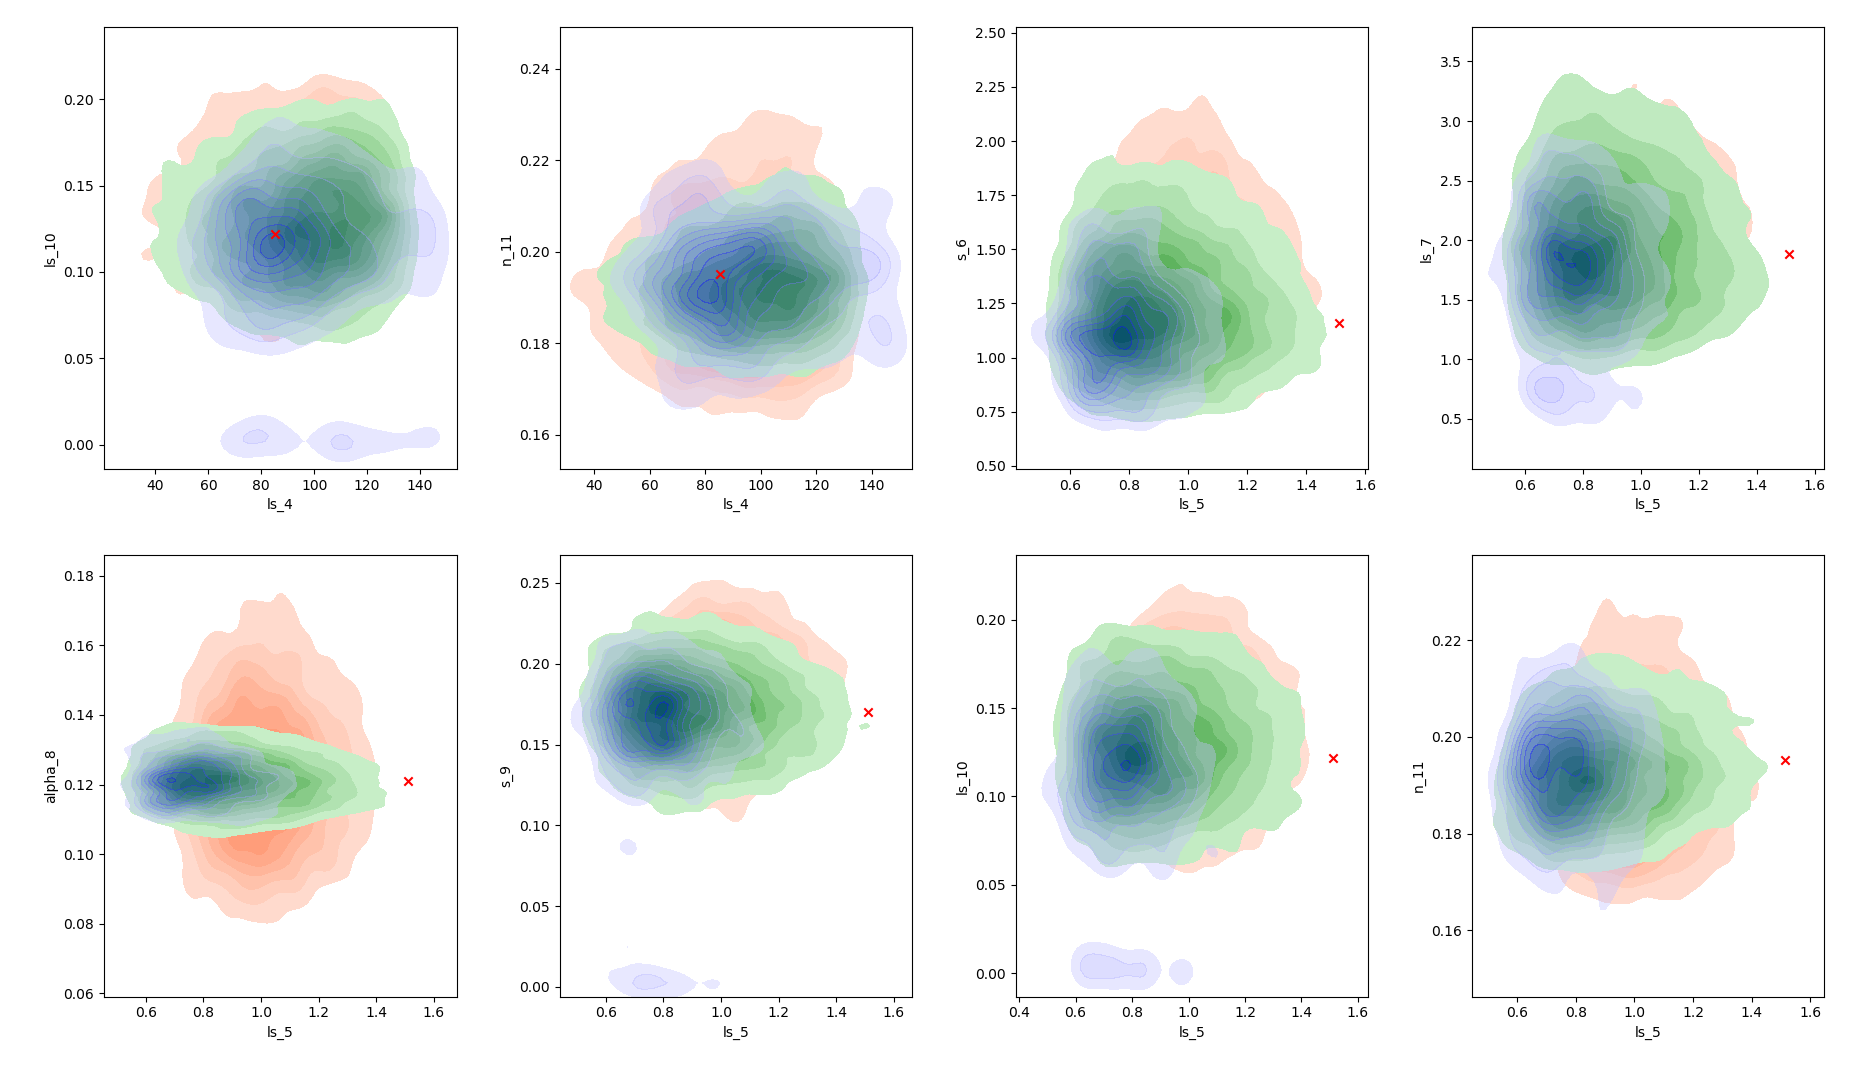
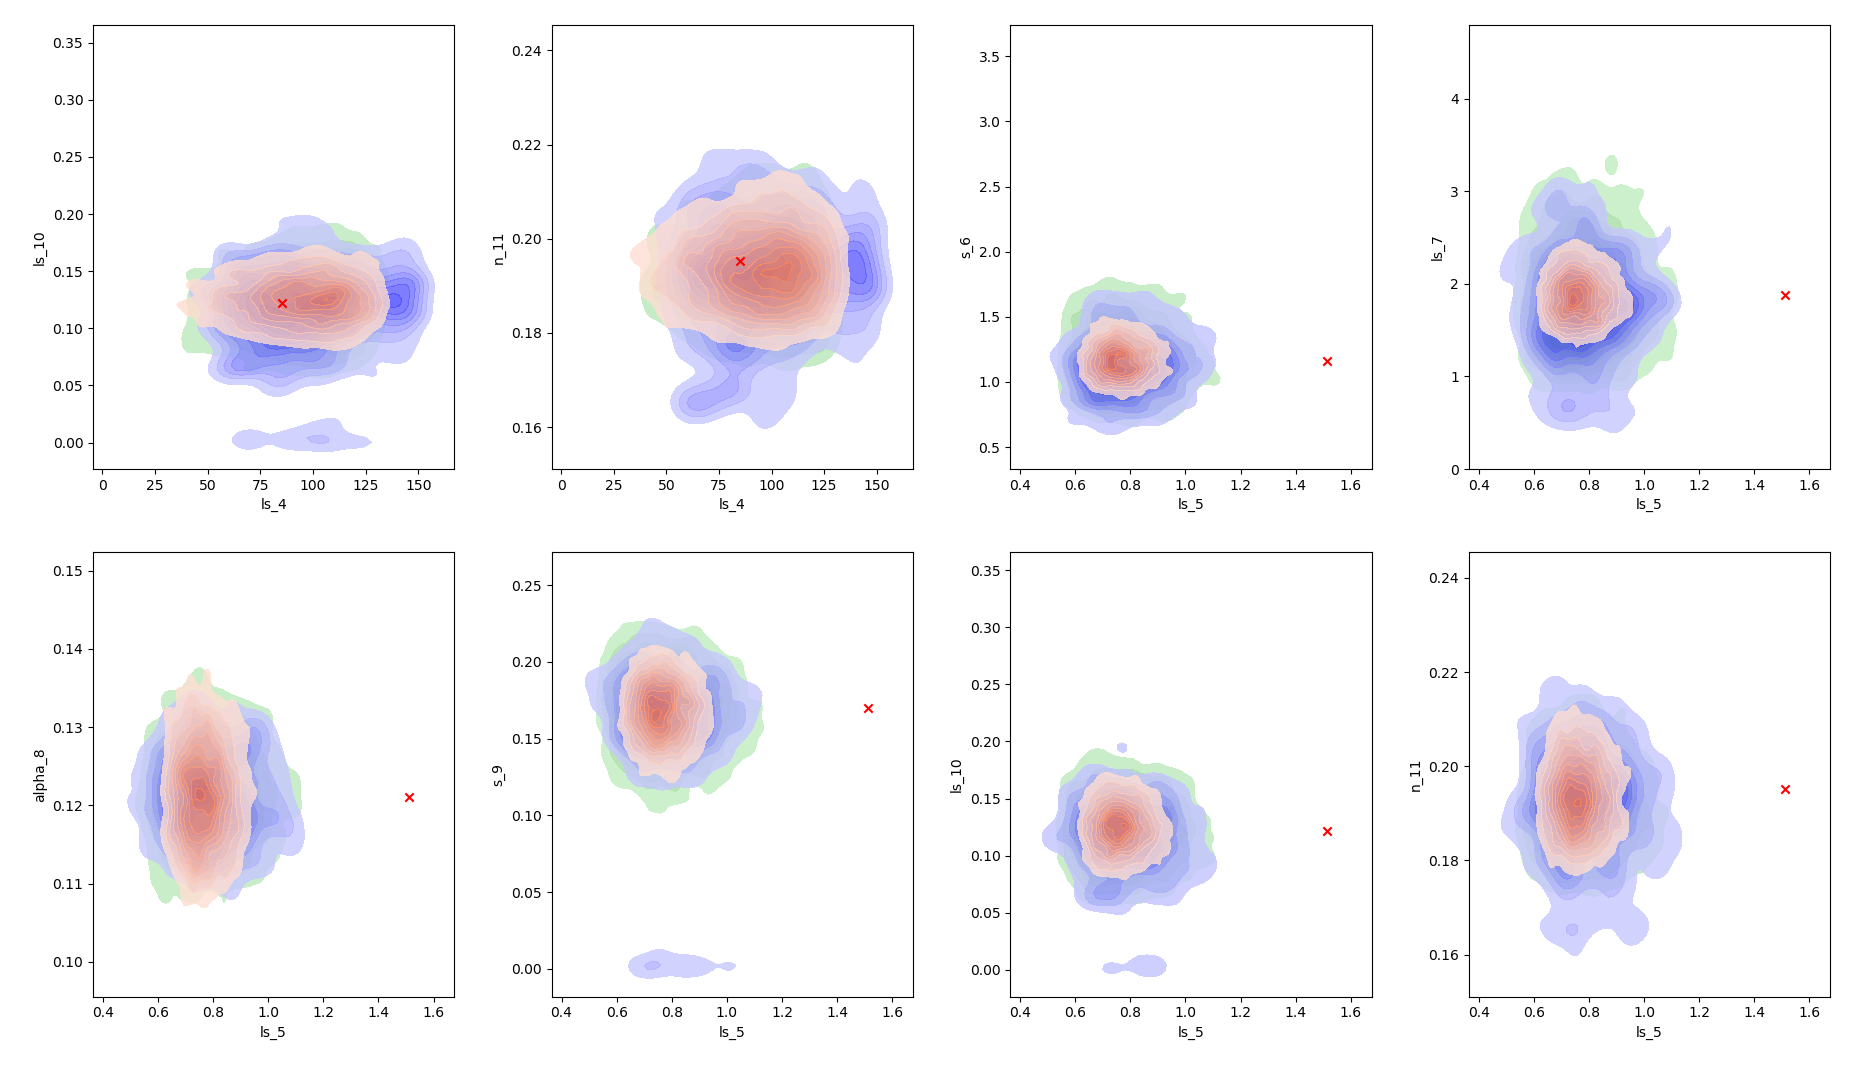
edits

diff --git a/GP/Hyperparameter Integration/co2_pymc3.py b/GP/Hyperparameter Integration/co2_pymc3.py
@@ -166,9 +166,38 @@ def get_empirical_covariance(trace, varnames):
       return pd.DataFrame(np.cov(df[varnames], rowvar=False), index=varnames, columns=varnames)
 
 
-def convergence_report(tracker, elbo):
+def transform_tracker_values(tracker, param_dict):
+
+      mean_df = pd.DataFrame(np.array(tracker['mean']), columns=list(param_dict['mu'].keys()))
+      sd_df = pd.DataFrame(np.array(tracker['std']), columns=list(param_dict['mu'].keys()))
+      for i in mean_df.columns:
+            print(i)
+            if (i[-2:] == '__'):
+                 mean_df[name_mapping[i]] = np.exp(raw_mapping.get(i).distribution.transform_used.backward(mean_df[i]).eval()) 
+            else:
+                mean_df[name_mapping[i]] = np.exp(mean_df[i]) 
+      return mean_df, sd_df
+                
+def convergence_report(tracker, param_dict, elbo, title):
       
       # Plot Negative ElBO track with params in true space
+      
+      mean_mf_df, sd_mf_df = transform_tracker_values(tracker_mf, mf_param)
+      mean_fr_df, sd_fr_df = transform_tracker_values(tracker_fr, fr_param)
+
+      fig = plt.figure(figsize=(16, 9))
+      for i in np.arange(3):
+            print(i)
+#            if (np.mod(i,8) == 0):
+#                   fig = plt.figure(figsize=(16,9))
+#                   i = i + 8
+#                   print(i)
+            plt.subplot(2,4,np.mod(i, 8)+1)
+            plt.plot(mean_mf_df[varnames[i+8]], color='coral')
+            plt.plot(mean_fr_df[varnames[i+8]], color='green')
+            plt.title(varnames[i+8])
+            plt.axhline(param_dict['mu_implicit'][varnames[i+8]], color='r')
+      
       
       fig = plt.figure(figsize=(16, 9))
       mu_ax = fig.add_subplot(221)
@@ -178,8 +207,9 @@ def convergence_report(tracker, elbo):
       mu_ax.set_title('Mean track')
       std_ax.plot(tracker['std'])
       std_ax.set_title('Std track')
-      hist_ax.plot(advi.hist)
+      hist_ax.plot(elbo)
       hist_ax.set_title('Negative ELBO track');
+      fig.suptitle(title)
 
 
 # Constructing posterior predictive distribution
@@ -401,7 +431,6 @@ with pm.Model() as co2_model:
        #ls_10 = 0.1219
      
        # prior on amplitudes
-       
 
        log_s1 = pm.Normal('log_s1', mu=np.log(ml_deltas['s_1']), sd=0.5)
        #log_s1 = pm.Uniform('log_s1', lower=-5, upper=7)
@@ -554,9 +583,6 @@ traceplots(trace_hmc, varnames, ml_deltas)
 traceplots(trace_mf, varnames, ml_deltas)
 traceplots(trace_fr, varnames, ml_deltas)
 
-# Convergence of VI
-
-
 
 # Covariance matrix
 
@@ -565,14 +591,14 @@ fr_cov = np.corrcoef(pm.trace_to_dataframe(trace_fr)[varnames], rowvar=False)
 
 fig = plt.figure(figsize=(10,6))
 ax1 = plt.subplot(121)
-ax1.matshow(hmc_cov)
+ax1.imshow(hmc_cov)
 ax1.set_xticks(np.arange(11))
 ax1.set_xticklabels(varnames, rotation=70, minor=False)
 ax1.set_yticks(np.arange(11))
 ax1.set_yticklabels(varnames, minor=False)
 ax1.set_title('HMC')
 ax2 = plt.subplot(122)
-ax2.matshow(fr_cov)
+ax2.imshow(fr_cov)
 ax2.set_xticks(np.arange(11))
 ax2.set_xticklabels(varnames, rotation=70, minor=False)
 ax2.set_yticks(np.arange(11))
@@ -595,7 +621,7 @@ lower_hmc, upper_hmc = get_posterior_predictive_uncertainty_intervals(sample_mea
 
 # MF
 
-sample_means_mf,sample_stds_mf = get_posterior_predictive_samples(trace_mf, 100, t_test, results_path, method='mf') 
+sample_means_mf,sample_stds_mf = get_posterior_predictive_samples(trace_mf, 200, t_test, results_path, method='mf') 
 
 sample_means_mf = pd.read_csv(results_path + 'pred_dist/' + 'means_mf.csv')
 sample_stds_mf = pd.read_csv(results_path + 'pred_dist/' + 'std_mf.csv')
@@ -624,7 +650,7 @@ for i in range(0,30):
 
 plt.figure()
 plt.plot(df['year'][sep_idx:], df['co2'][sep_idx:], 'ko', markersize=2)
-for i in range(0,30):
+for i in range(0,20):
       plt.fill_between(df['year'][sep_idx:], sample_means_mf.ix[i] - 2*sample_stds_mf.ix[i],  sample_means_mf.ix[i] + 2*sample_stds_mf.ix[i], alpha=0.3, color='grey')
       plt.plot(df['year'][sep_idx:], sample_means_mf.ix[i], color='coral', alpha=0.3)
       
@@ -645,8 +671,6 @@ lppd_hmc, lpd_hmc = log_predictive_mixture_density(y_test, sample_means_hmc, sam
 lppd_mf, lpd_mf = log_predictive_mixture_density(y_test, sample_means_mf, sample_stds_mf)
 lppd_fr, lpd_fr = log_predictive_mixture_density(y_test, sample_means_fr, sample_stds_fr)
 
-
-
 # Plot with HMC + ADVI + Type II results with RMSE and LPD for co2 data
 
 title = 'Type II ML   ' + ' RMSE: ' + str(rmse_)  + '   LPD: ' + str(lpd_) + '\n' +  ' HMC         '  + '    RMSE: ' + str(rmse_hmc) + '   LPD: ' + str(lpd_hmc) + '\n' + ' MF           ' +  '     RMSE: ' + str(rmse_mf) + '    LPD: ' + str(lpd_mf) +  '\n' + ' FR           '  +  '     RMSE: ' + str(rmse_fr)  + '    LPD: ' + str(lpd_fr) 
@@ -659,10 +683,10 @@ plt.plot(df['year'][sep_idx:], mu_hmc, alpha=1, label='HMC', color='b')
 plt.plot(df['year'][sep_idx:], mu_mf, alpha=1, label='MF', color='coral')
 plt.plot(df['year'][sep_idx:], mu_fr, alpha=1, label='FR', color='g')
 
-plt.fill_between(df['year'][sep_idx:], (mu_test - 1.96*std_test), (mu_test + 1.96*std_test), color='red', alpha=0.2)
 plt.fill_between(df['year'][sep_idx:], lower_hmc, upper_hmc, color='blue', alpha=0.2)
-plt.fill_between(df['year'][sep_idx:], lower_mf, upper_mf, color='coral', alpha=0.2)
-plt.fill_between(df['year'][sep_idx:], lower_fr, upper_fr, color='green', alpha=0.2)
+plt.fill_between(df['year'][sep_idx:], lower_fr, upper_fr, color='green', alpha=0.5)
+plt.fill_between(df['year'][sep_idx:], lower_mf, upper_mf, color='coral', alpha=0.5)
+plt.fill_between(df['year'][sep_idx:], (mu_test - 1.96*std_test), (mu_test + 1.96*std_test), color='red', alpha=0.3)
 plt.legend(fontsize='x-small')
 plt.title(title, fontsize='x-small')
 plt.ylim(370,420)
@@ -753,9 +777,9 @@ for i, j  in zip(bi_list, np.arange(len(bi_list))):
         if np.mod(j,8) == 0:
             fig = plt.figure(figsize=(15,8))
         plt.subplot(2,4,np.mod(j, 8)+1)
-        sns.kdeplot(trace_fr[i[0]], trace_fr[i[1]], color='g', shade=True, bw='silverman', shade_lowest=False, alpha=0.5)
-        sns.kdeplot(trace_hmc[i[0]], trace_hmc[i[1]], color='b', shade=True, bw='silverman', shade_lowest=False, alpha=0.4)
-        sns.kdeplot(trace_mf[i[0]], trace_mf[i[1]], color='coral', shade=True, bw='silverman', shade_lowest=False, alpha=1)
+        sns.kdeplot(trace_fr[i[0]], trace_fr[i[1]], color='g', shade=True, bw='silverman', shade_lowest=False, alpha=0.9)
+        sns.kdeplot(trace_hmc[i[0]], trace_hmc[i[1]], color='b', shade=True, bw='silverman', shade_lowest=False, alpha=0.8)
+        sns.kdeplot(trace_mf[i[0]], trace_mf[i[1]], color='coral', shade=True, bw='silverman', shade_lowest=False, alpha=0.8)
         plt.scatter(ml_deltas[i[0]], ml_deltas[i[1]], marker='x', color='r')
         plt.xlabel(i[0])
         plt.ylabel(i[1])
